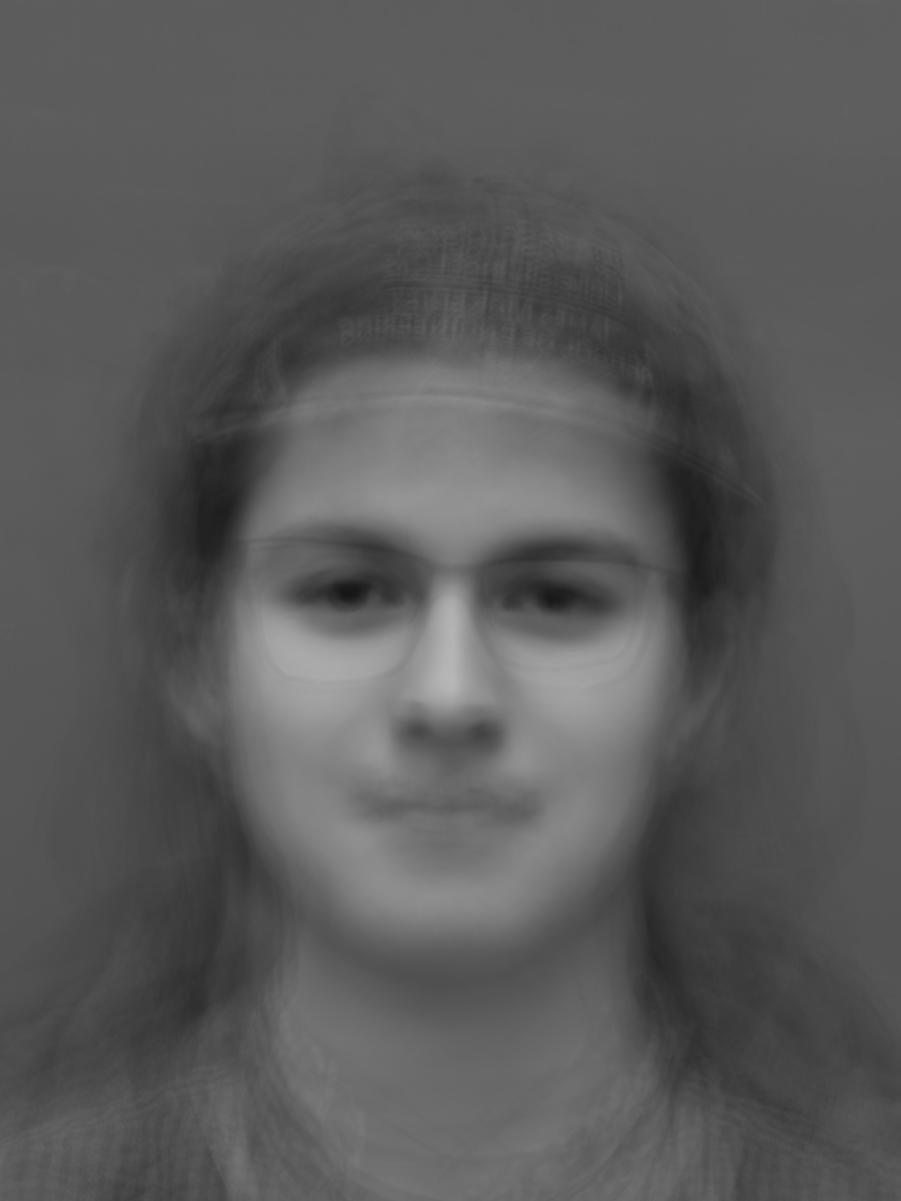
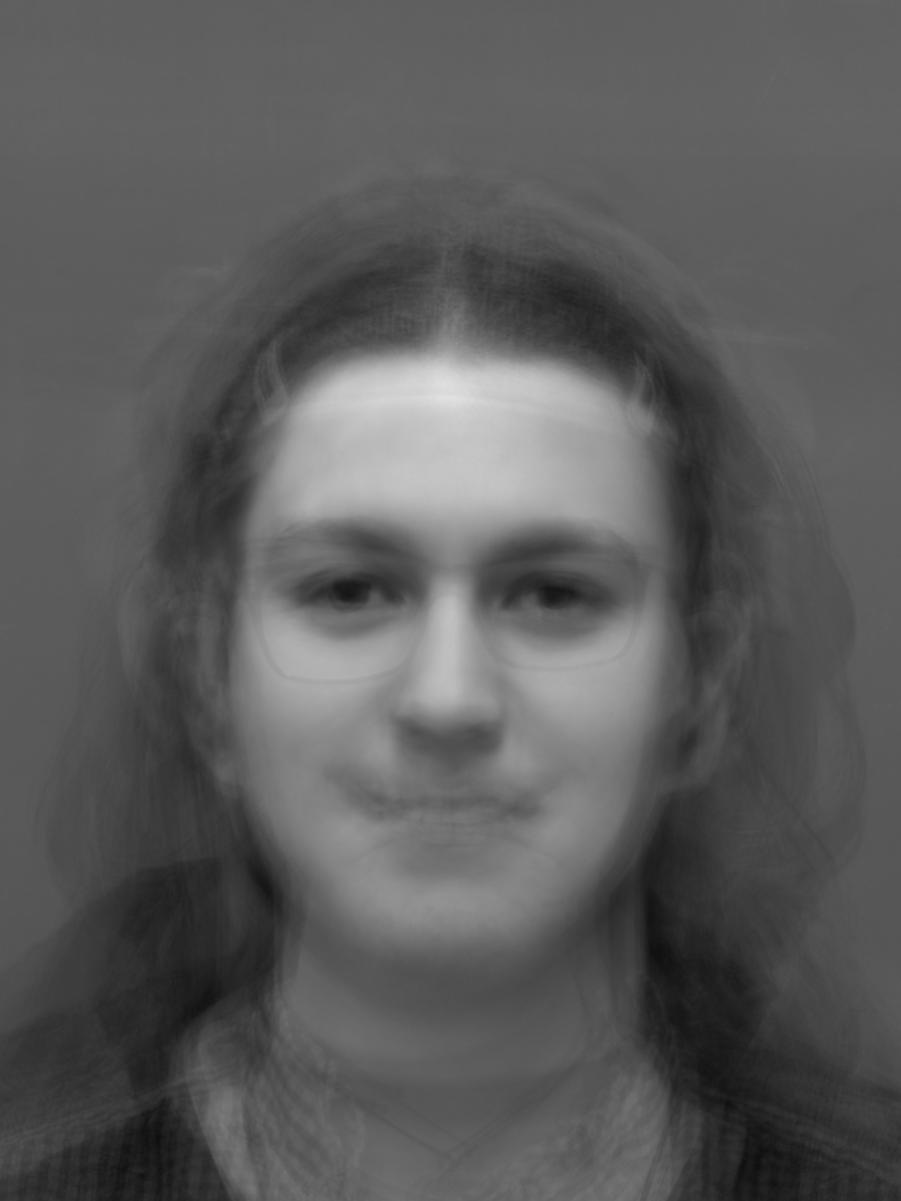
made eigenfaces

diff --git a/processImages.py b/processImages.py
@@ -2,6 +2,7 @@ import os
 from PIL import Image
 import numpy as np
 import random
+import matplotlib.pyplot as plt
 
 ## Lists all of the images in the data folder
 file_path = "data1Cropped/"
@@ -43,6 +44,7 @@ print("U shape: " + str(u.shape))
 print("V shape: " + str(v.shape))
 print("Reconstructing faces")
 
+## Reconstruct faces with different numbers of components
 for num_comps in range(1,53):
     ## Remakes the large image matrix by multiplying U*S*V'
     ## np.matrix converts U,S,V to a matrix  that can be multiplied easier
@@ -65,3 +67,53 @@ for num_comps in range(1,53):
     ## Saves image to a new folder with the component name
     new_image.save("diffPeople/" + str(num_comps) + "_comps.jpg")
     print("Saved image: " + "diffPeople/" + str(num_comps) + "_comps.jpg")
+
+
+## Show eigenfaces
+for num_comps in range(1,5):
+    ## Selects a random person to show
+    personToShow = random.randint(0,53)
+    eigen = np.matrix(u[:, :])* np.diag(s[:])
+    print(eigen.shape)
+    print(eigen[0,:15])
+    face = eigen[:,personToShow]
+    reshaped = face.reshape(901,1201)
+    mean = np.mean(reshaped)
+    reshaped += mean
+    new_image = Image.fromarray(reshaped).rotate(270, Image.NEAREST, expand = 1)
+    if new_image.mode != 'RGB':
+        new_image = new_image.convert('RGB')
+    new_image.save("eigenfaces/" + str(personToShow) + "_person.jpg")
+   
+   
+    
+## Showing a random face with first 20 prinipal component values of V matrix
+for people in range(1,2):
+    num_comps = 20
+    ## Remakes the large image matrix by multiplying U*S*V'
+    ## np.matrix converts U,S,V to a matrix  that can be multiplied easier
+    remade = np.matrix(u[:,:num_comps]) * np.diag(s[:num_comps]) * np.matrix(v[:num_comps, : ])
+    
+    ## Selects a random person to show
+    personToShow = random.randint(0,53)
+    
+    ## Extracts the random column and reshapes it to original size
+    reshaped = remade[:,personToShow].reshape(901,1201)
+    
+    ## Converts the numpy matrix to an Image and rotates it
+    new_image = Image.fromarray(reshaped).rotate(270, Image.NEAREST, expand = 1)
+    
+    ## Converts the image to be RGB
+    ## Image is still greyscale, but this just changed how it is stored
+    if new_image.mode != 'RGB':
+        new_image = new_image.convert('RGB')
+        
+    ## Saves image to a new folder with the component name
+    new_image.save("rightSingular/" + str(personToShow) + "_person.jpg")
+    print("Saved image: " + "rightSingular/" + str(personToShow) + "_person.jpg")
+    
+    ## Plotting first 20 coefficients of V matrix
+    plt.plot(list(range(1,num_comps+1)), list(np.array(v[:num_comps, personToShow ])))
+    plt.xlabel('Principal Component')
+    plt.ylabel('Corresponding Coefficient from V matrix')
+    plt.show()
